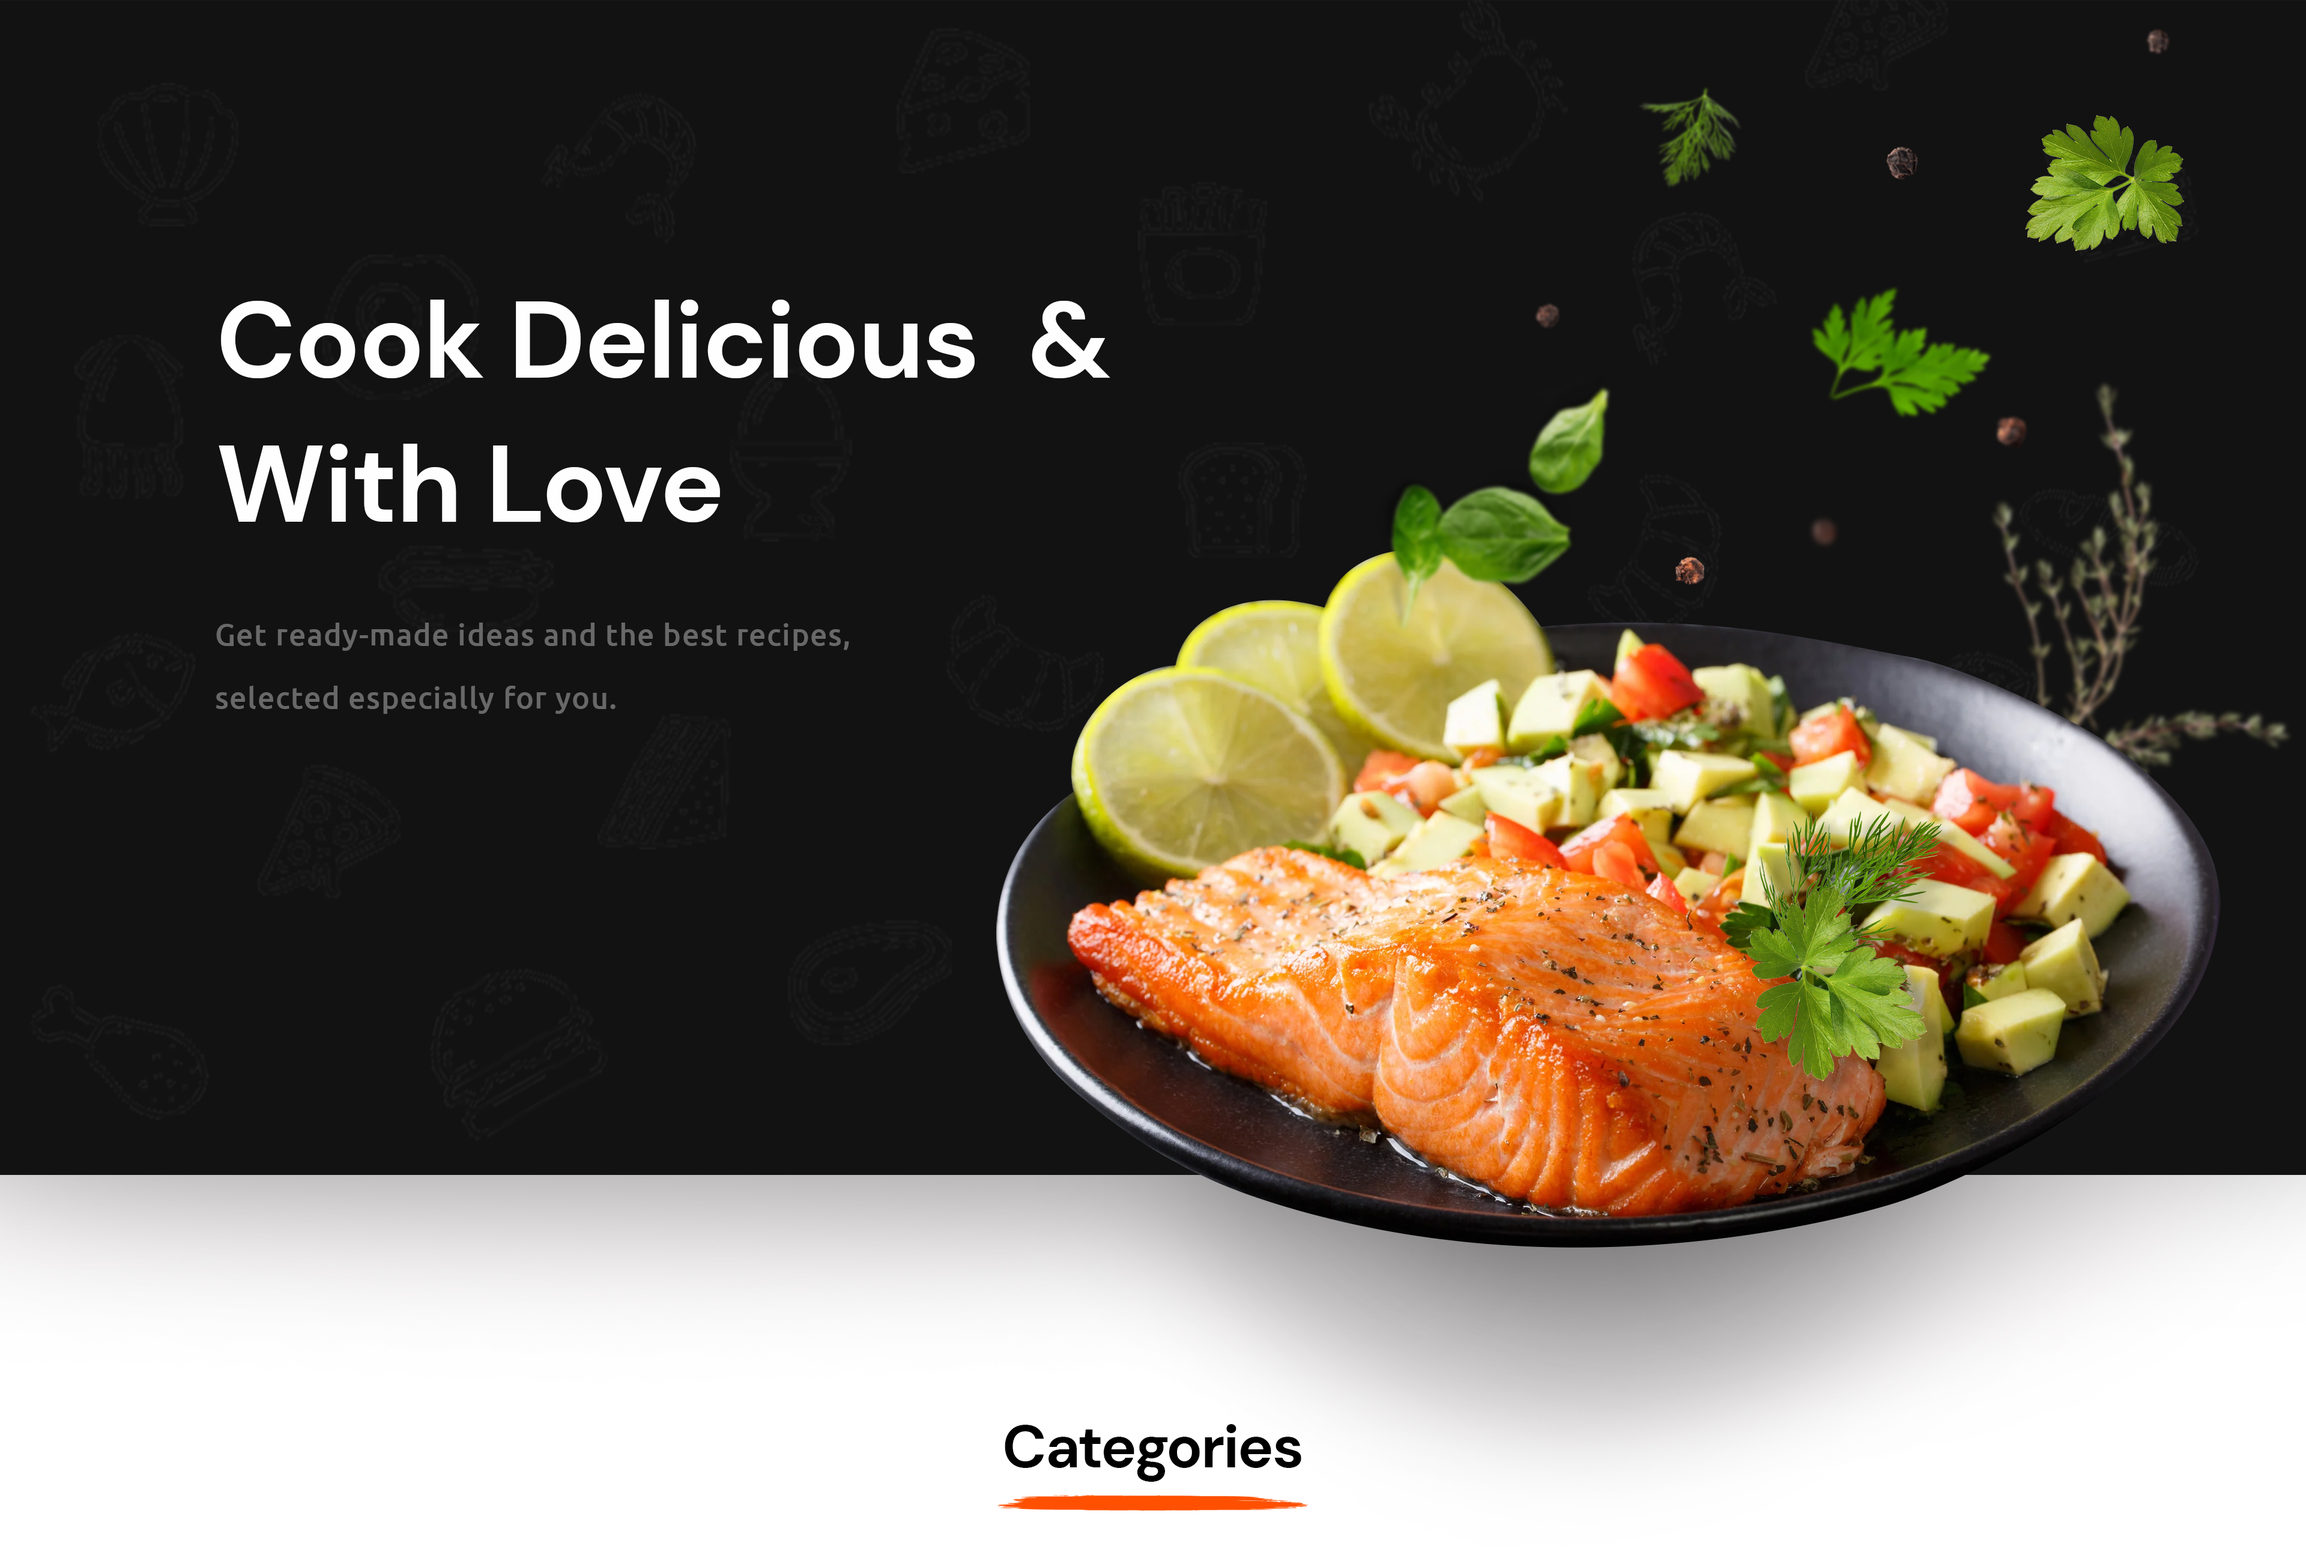
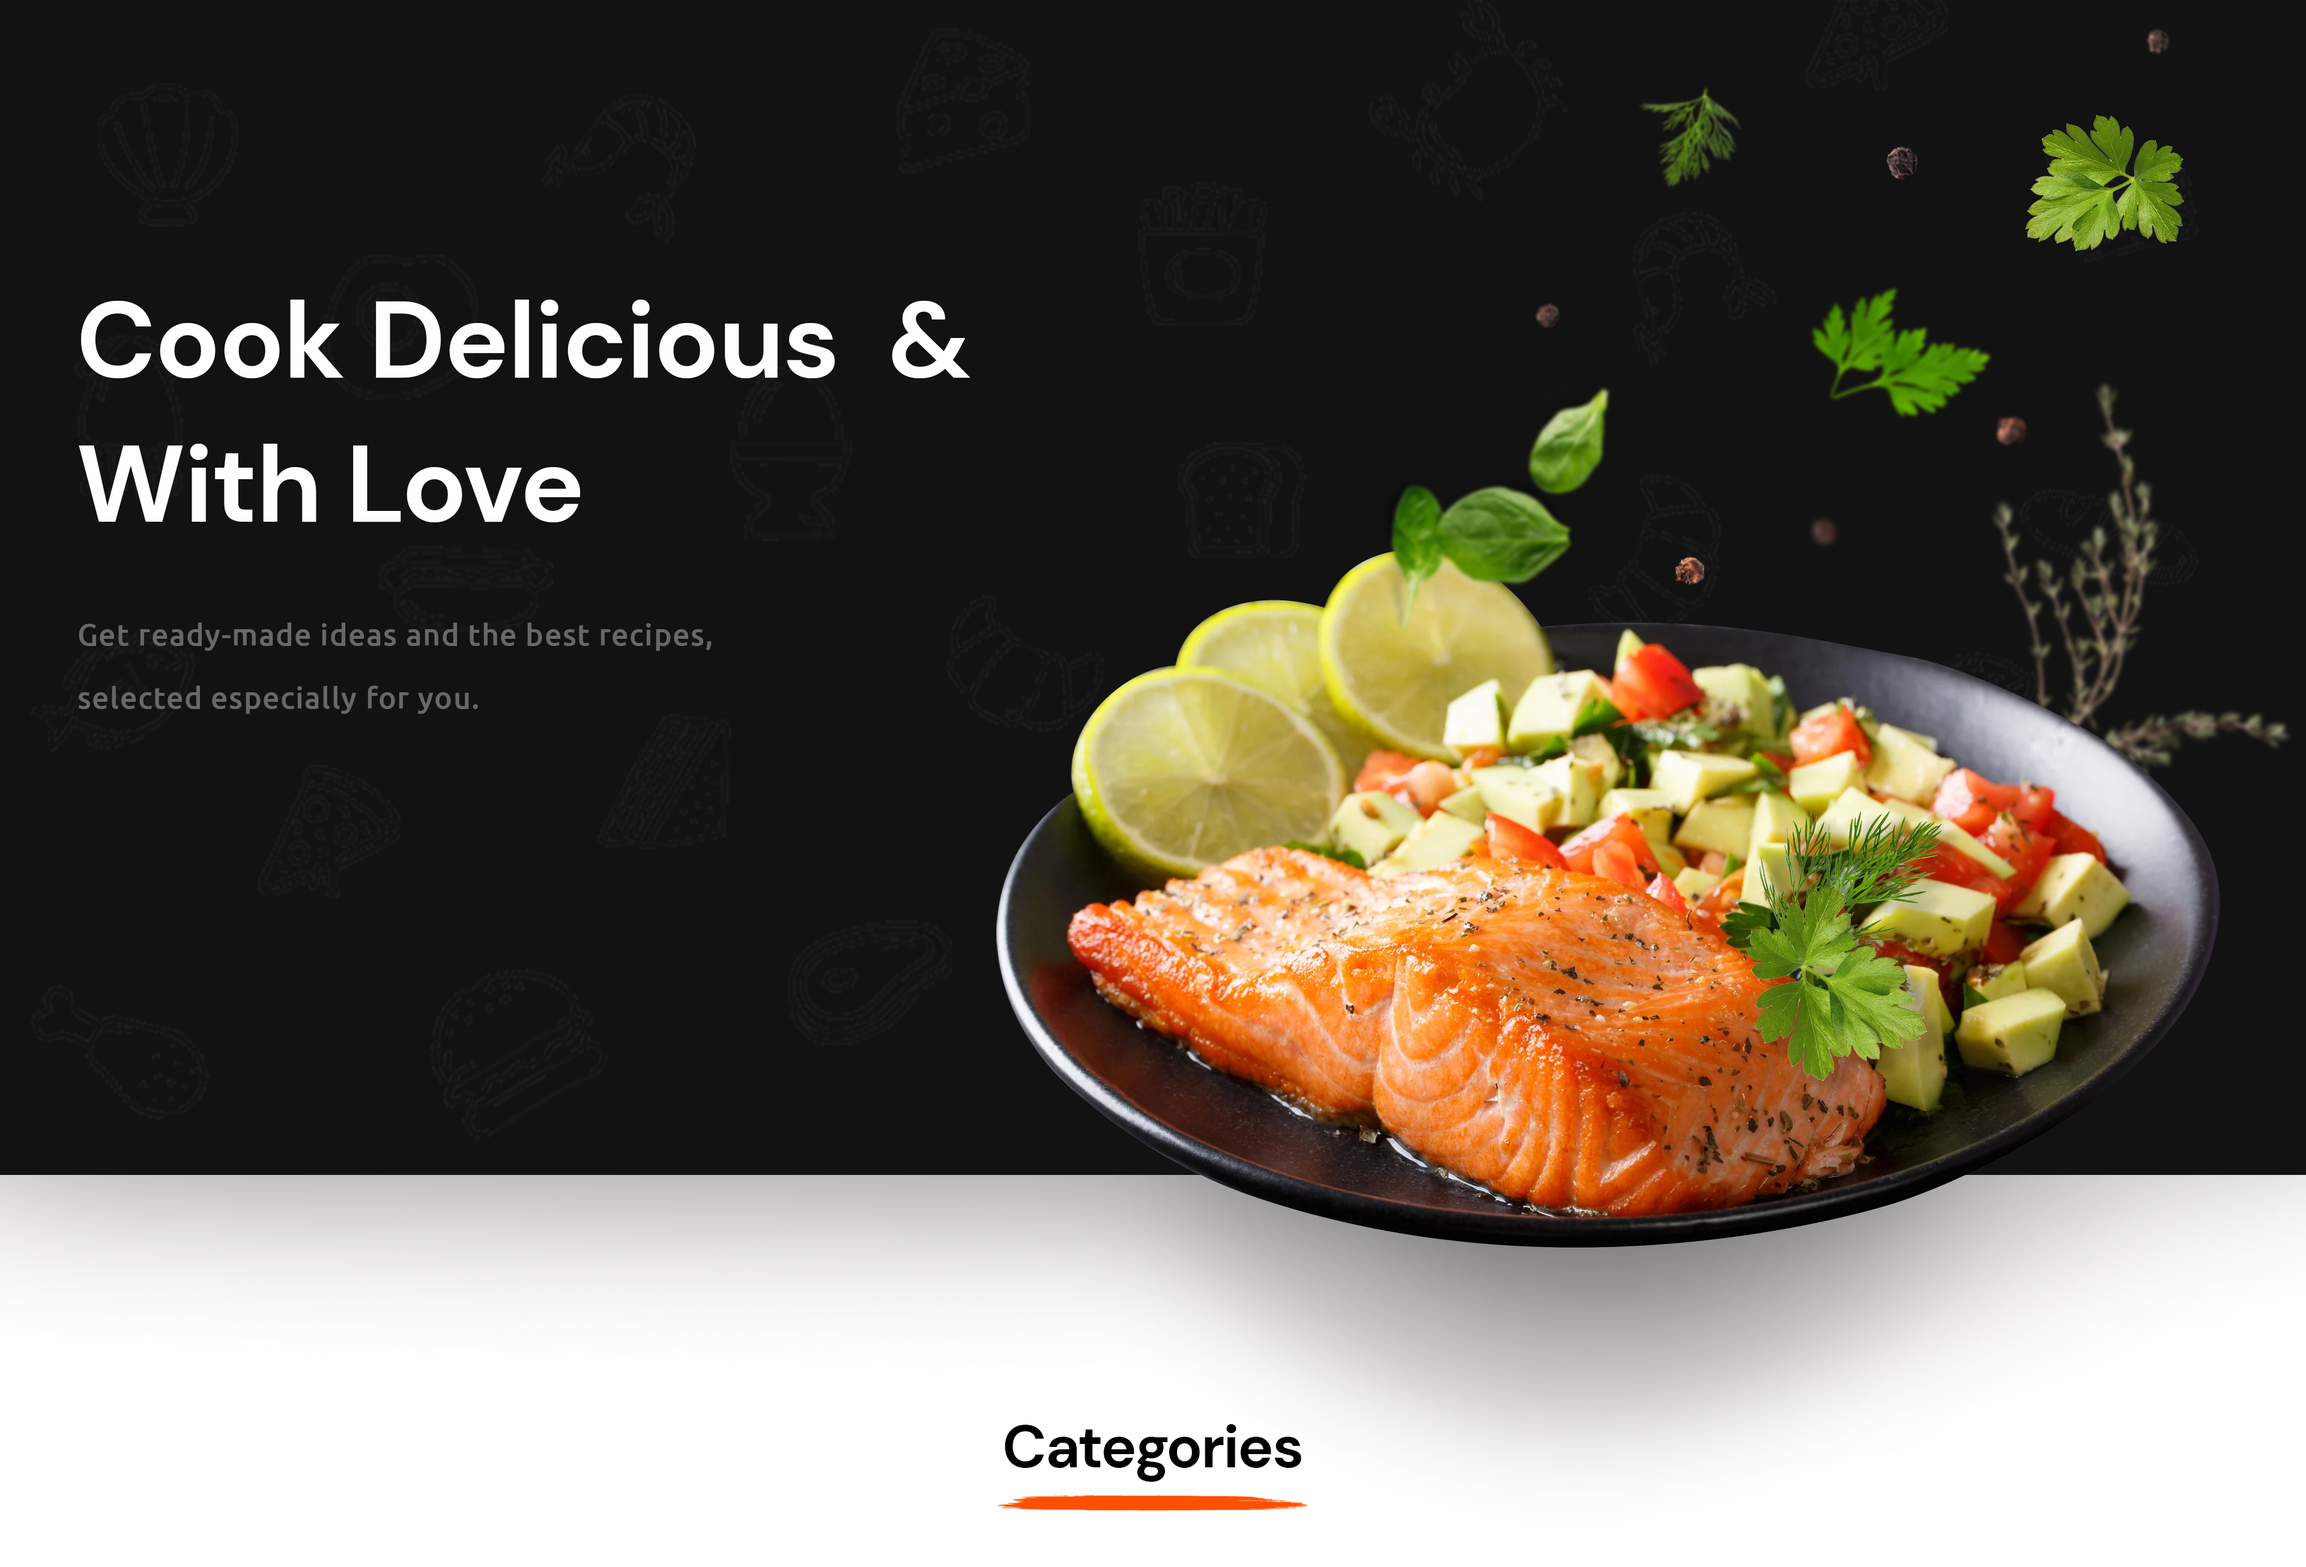
adjusting the location of the button and text on the slider

diff --git a/styles.css b/styles.css
@@ -47,11 +47,12 @@ body{
   color: var(--first-color);
   text-decoration: none;
   border-radius: 10px;
-  margin: 200px 150px;
+  margin: 200px 148px;
   border: none;
   cursor: pointer;
   position: absolute;
   top: 430px;
+  left: -95px;
 }
 .button:hover{
   background: transparent;
